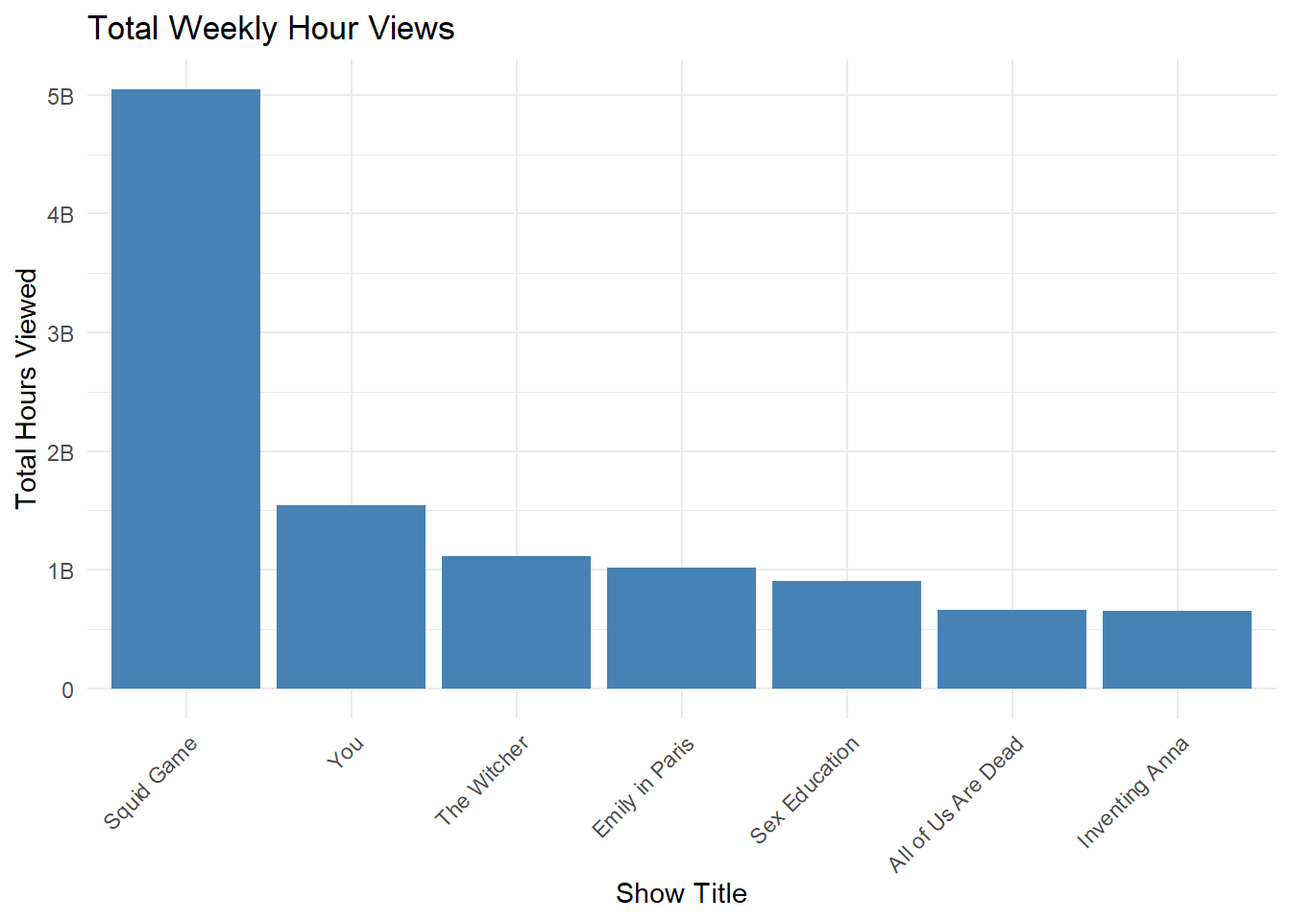
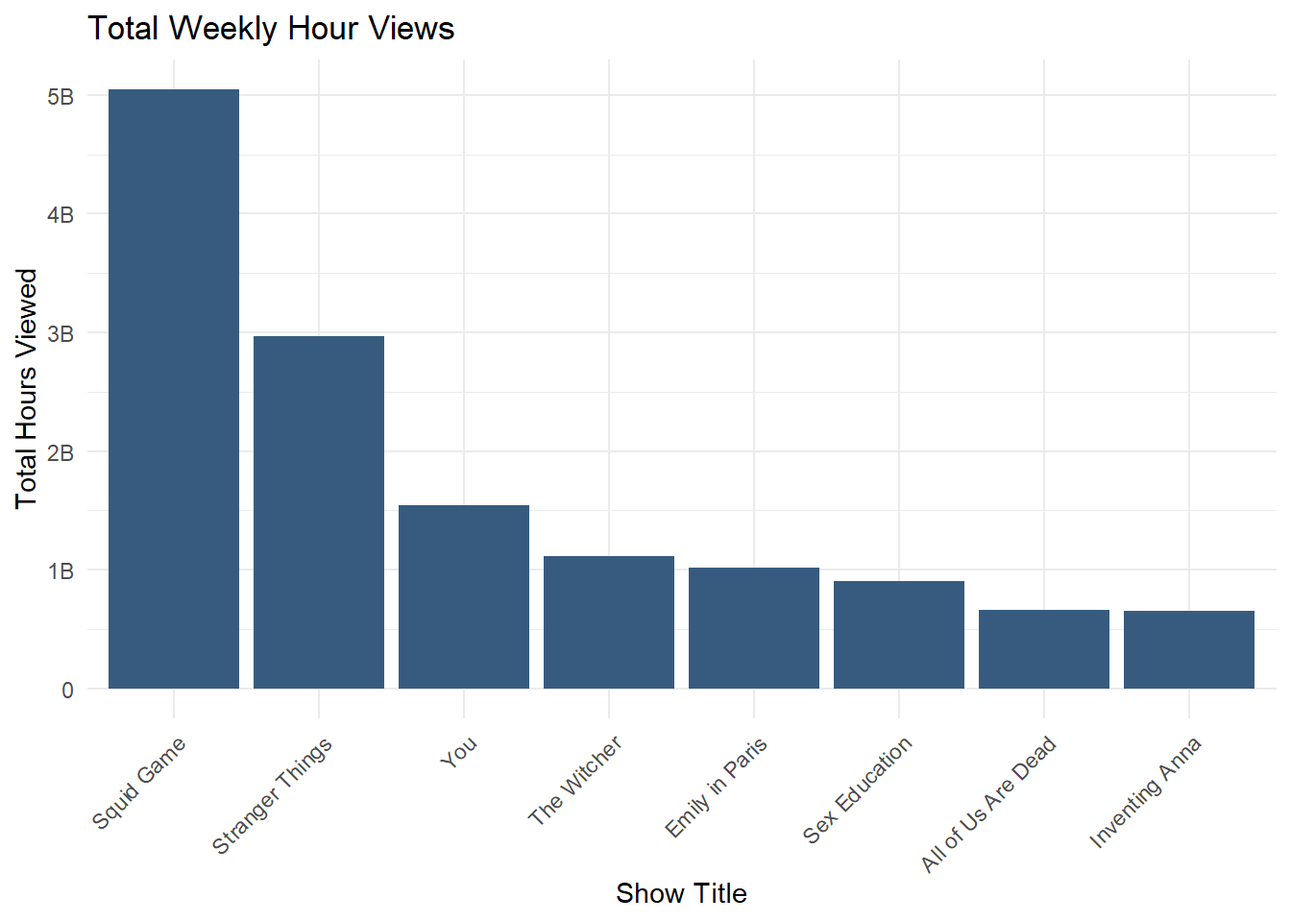
added graph images

diff --git a/docs/mp01.html b/docs/mp01.html
@@ -238,33 +238,34 @@ pre > code.sourceCode > span > a:first-child::before { text-decoration: underlin
 <span id="cb1-9"><a href="#cb1-9" aria-hidden="true" tabindex="-1"></a><span class="fu">library</span>(rnaturalearth)</span>
 <span id="cb1-10"><a href="#cb1-10" aria-hidden="true" tabindex="-1"></a><span class="fu">library</span>(rnaturalearthdata)</span>
 <span id="cb1-11"><a href="#cb1-11" aria-hidden="true" tabindex="-1"></a><span class="fu">library</span>(ggplot2)</span>
-<span id="cb1-12"><a href="#cb1-12" aria-hidden="true" tabindex="-1"></a></span>
+<span id="cb1-12"><a href="#cb1-12" aria-hidden="true" tabindex="-1"></a><span class="fu">library</span>(scales)</span>
 <span id="cb1-13"><a href="#cb1-13" aria-hidden="true" tabindex="-1"></a></span>
-<span id="cb1-14"><a href="#cb1-14" aria-hidden="true" tabindex="-1"></a><span class="cf">if</span>(<span class="sc">!</span><span class="fu">dir.exists</span>(<span class="fu">file.path</span>(<span class="st">"data"</span>, <span class="st">"mp01"</span>))){</span>
-<span id="cb1-15"><a href="#cb1-15" aria-hidden="true" tabindex="-1"></a>    <span class="fu">dir.create</span>(<span class="fu">file.path</span>(<span class="st">"data"</span>, <span class="st">"mp01"</span>), <span class="at">showWarnings=</span><span class="cn">FALSE</span>, <span class="at">recursive=</span><span class="cn">TRUE</span>)</span>
-<span id="cb1-16"><a href="#cb1-16" aria-hidden="true" tabindex="-1"></a>}</span>
-<span id="cb1-17"><a href="#cb1-17" aria-hidden="true" tabindex="-1"></a></span>
-<span id="cb1-18"><a href="#cb1-18" aria-hidden="true" tabindex="-1"></a>GLOBAL_TOP_10_FILENAME <span class="ot">&lt;-</span> <span class="fu">file.path</span>(<span class="st">"data"</span>, <span class="st">"mp01"</span>, <span class="st">"global_top10_alltime.csv"</span>)</span>
-<span id="cb1-19"><a href="#cb1-19" aria-hidden="true" tabindex="-1"></a></span>
-<span id="cb1-20"><a href="#cb1-20" aria-hidden="true" tabindex="-1"></a><span class="cf">if</span>(<span class="sc">!</span><span class="fu">file.exists</span>(GLOBAL_TOP_10_FILENAME)){</span>
-<span id="cb1-21"><a href="#cb1-21" aria-hidden="true" tabindex="-1"></a>    <span class="fu">download.file</span>(<span class="st">"https://www.netflix.com/tudum/top10/data/all-weeks-global.tsv"</span>, </span>
-<span id="cb1-22"><a href="#cb1-22" aria-hidden="true" tabindex="-1"></a>                  <span class="at">destfile=</span>GLOBAL_TOP_10_FILENAME)</span>
-<span id="cb1-23"><a href="#cb1-23" aria-hidden="true" tabindex="-1"></a>}</span>
-<span id="cb1-24"><a href="#cb1-24" aria-hidden="true" tabindex="-1"></a></span>
-<span id="cb1-25"><a href="#cb1-25" aria-hidden="true" tabindex="-1"></a>COUNTRY_TOP_10_FILENAME <span class="ot">&lt;-</span> <span class="fu">file.path</span>(<span class="st">"data"</span>, <span class="st">"mp01"</span>, <span class="st">"country_top10_alltime.csv"</span>)</span>
-<span id="cb1-26"><a href="#cb1-26" aria-hidden="true" tabindex="-1"></a></span>
-<span id="cb1-27"><a href="#cb1-27" aria-hidden="true" tabindex="-1"></a><span class="cf">if</span>(<span class="sc">!</span><span class="fu">file.exists</span>(COUNTRY_TOP_10_FILENAME)){</span>
-<span id="cb1-28"><a href="#cb1-28" aria-hidden="true" tabindex="-1"></a>    <span class="fu">download.file</span>(<span class="st">"https://www.netflix.com/tudum/top10/data/all-weeks-countries.tsv"</span>, </span>
-<span id="cb1-29"><a href="#cb1-29" aria-hidden="true" tabindex="-1"></a>                  <span class="at">destfile=</span>COUNTRY_TOP_10_FILENAME)</span>
-<span id="cb1-30"><a href="#cb1-30" aria-hidden="true" tabindex="-1"></a>}</span>
-<span id="cb1-31"><a href="#cb1-31" aria-hidden="true" tabindex="-1"></a></span>
-<span id="cb1-32"><a href="#cb1-32" aria-hidden="true" tabindex="-1"></a>COUNTRY_TOP_10_FILENAME <span class="ot">&lt;-</span> <span class="fu">file.path</span>(<span class="st">"data"</span>, <span class="st">"mp01"</span>, <span class="st">"country_top10_alltime.csv"</span>)</span>
-<span id="cb1-33"><a href="#cb1-33" aria-hidden="true" tabindex="-1"></a></span>
-<span id="cb1-34"><a href="#cb1-34" aria-hidden="true" tabindex="-1"></a><span class="co"># Data cleaning to replace "N/A" string with N/A</span></span>
-<span id="cb1-35"><a href="#cb1-35" aria-hidden="true" tabindex="-1"></a></span>
-<span id="cb1-36"><a href="#cb1-36" aria-hidden="true" tabindex="-1"></a>GLOBAL_TOP_10 <span class="ot">&lt;-</span> <span class="fu">read_tsv</span>(GLOBAL_TOP_10_FILENAME, <span class="at">na=</span><span class="fu">c</span>(<span class="st">"N/A"</span>))</span>
-<span id="cb1-37"><a href="#cb1-37" aria-hidden="true" tabindex="-1"></a></span>
-<span id="cb1-38"><a href="#cb1-38" aria-hidden="true" tabindex="-1"></a>COUNTRY_TOP_10 <span class="ot">&lt;-</span> <span class="fu">read_tsv</span>(COUNTRY_TOP_10_FILENAME, <span class="at">na=</span><span class="fu">c</span>(<span class="st">"N/A"</span>))</span></code><button title="Copy to Clipboard" class="code-copy-button"><i class="bi"></i></button></pre></div>
+<span id="cb1-14"><a href="#cb1-14" aria-hidden="true" tabindex="-1"></a></span>
+<span id="cb1-15"><a href="#cb1-15" aria-hidden="true" tabindex="-1"></a><span class="cf">if</span>(<span class="sc">!</span><span class="fu">dir.exists</span>(<span class="fu">file.path</span>(<span class="st">"data"</span>, <span class="st">"mp01"</span>))){</span>
+<span id="cb1-16"><a href="#cb1-16" aria-hidden="true" tabindex="-1"></a>    <span class="fu">dir.create</span>(<span class="fu">file.path</span>(<span class="st">"data"</span>, <span class="st">"mp01"</span>), <span class="at">showWarnings=</span><span class="cn">FALSE</span>, <span class="at">recursive=</span><span class="cn">TRUE</span>)</span>
+<span id="cb1-17"><a href="#cb1-17" aria-hidden="true" tabindex="-1"></a>}</span>
+<span id="cb1-18"><a href="#cb1-18" aria-hidden="true" tabindex="-1"></a></span>
+<span id="cb1-19"><a href="#cb1-19" aria-hidden="true" tabindex="-1"></a>GLOBAL_TOP_10_FILENAME <span class="ot">&lt;-</span> <span class="fu">file.path</span>(<span class="st">"data"</span>, <span class="st">"mp01"</span>, <span class="st">"global_top10_alltime.csv"</span>)</span>
+<span id="cb1-20"><a href="#cb1-20" aria-hidden="true" tabindex="-1"></a></span>
+<span id="cb1-21"><a href="#cb1-21" aria-hidden="true" tabindex="-1"></a><span class="cf">if</span>(<span class="sc">!</span><span class="fu">file.exists</span>(GLOBAL_TOP_10_FILENAME)){</span>
+<span id="cb1-22"><a href="#cb1-22" aria-hidden="true" tabindex="-1"></a>    <span class="fu">download.file</span>(<span class="st">"https://www.netflix.com/tudum/top10/data/all-weeks-global.tsv"</span>, </span>
+<span id="cb1-23"><a href="#cb1-23" aria-hidden="true" tabindex="-1"></a>                  <span class="at">destfile=</span>GLOBAL_TOP_10_FILENAME)</span>
+<span id="cb1-24"><a href="#cb1-24" aria-hidden="true" tabindex="-1"></a>}</span>
+<span id="cb1-25"><a href="#cb1-25" aria-hidden="true" tabindex="-1"></a></span>
+<span id="cb1-26"><a href="#cb1-26" aria-hidden="true" tabindex="-1"></a>COUNTRY_TOP_10_FILENAME <span class="ot">&lt;-</span> <span class="fu">file.path</span>(<span class="st">"data"</span>, <span class="st">"mp01"</span>, <span class="st">"country_top10_alltime.csv"</span>)</span>
+<span id="cb1-27"><a href="#cb1-27" aria-hidden="true" tabindex="-1"></a></span>
+<span id="cb1-28"><a href="#cb1-28" aria-hidden="true" tabindex="-1"></a><span class="cf">if</span>(<span class="sc">!</span><span class="fu">file.exists</span>(COUNTRY_TOP_10_FILENAME)){</span>
+<span id="cb1-29"><a href="#cb1-29" aria-hidden="true" tabindex="-1"></a>    <span class="fu">download.file</span>(<span class="st">"https://www.netflix.com/tudum/top10/data/all-weeks-countries.tsv"</span>, </span>
+<span id="cb1-30"><a href="#cb1-30" aria-hidden="true" tabindex="-1"></a>                  <span class="at">destfile=</span>COUNTRY_TOP_10_FILENAME)</span>
+<span id="cb1-31"><a href="#cb1-31" aria-hidden="true" tabindex="-1"></a>}</span>
+<span id="cb1-32"><a href="#cb1-32" aria-hidden="true" tabindex="-1"></a></span>
+<span id="cb1-33"><a href="#cb1-33" aria-hidden="true" tabindex="-1"></a>COUNTRY_TOP_10_FILENAME <span class="ot">&lt;-</span> <span class="fu">file.path</span>(<span class="st">"data"</span>, <span class="st">"mp01"</span>, <span class="st">"country_top10_alltime.csv"</span>)</span>
+<span id="cb1-34"><a href="#cb1-34" aria-hidden="true" tabindex="-1"></a></span>
+<span id="cb1-35"><a href="#cb1-35" aria-hidden="true" tabindex="-1"></a><span class="co"># Data cleaning to replace "N/A" string with N/A</span></span>
+<span id="cb1-36"><a href="#cb1-36" aria-hidden="true" tabindex="-1"></a></span>
+<span id="cb1-37"><a href="#cb1-37" aria-hidden="true" tabindex="-1"></a>GLOBAL_TOP_10 <span class="ot">&lt;-</span> <span class="fu">read_tsv</span>(GLOBAL_TOP_10_FILENAME, <span class="at">na=</span><span class="fu">c</span>(<span class="st">"N/A"</span>))</span>
+<span id="cb1-38"><a href="#cb1-38" aria-hidden="true" tabindex="-1"></a></span>
+<span id="cb1-39"><a href="#cb1-39" aria-hidden="true" tabindex="-1"></a>COUNTRY_TOP_10 <span class="ot">&lt;-</span> <span class="fu">read_tsv</span>(COUNTRY_TOP_10_FILENAME, <span class="at">na=</span><span class="fu">c</span>(<span class="st">"N/A"</span>))</span></code><button title="Copy to Clipboard" class="code-copy-button"><i class="bi"></i></button></pre></div>
 </details>
 </div>
 </section>
@@ -308,8 +309,8 @@ pre > code.sourceCode > span > a:first-child::before { text-decoration: underlin
 <span id="cb4-10"><a href="#cb4-10" aria-hidden="true" tabindex="-1"></a>              <span class="at">color =</span><span class="st">'white'</span>)</span></code><button title="Copy to Clipboard" class="code-copy-button"><i class="bi"></i></button></pre></div>
 </details>
 <div class="cell-output-display">
-<div class="datatables html-widget html-fill-item" id="htmlwidget-d7f323e7b025d54f7ba7" style="width:100%;height:auto;"></div>
-<script type="application/json" data-for="htmlwidget-d7f323e7b025d54f7ba7">{"x":{"filter":"none","vertical":false,"data":[["1","2","3","4","5"],["Pushpa 2: The Rule (Reloaded Version)","Animal","Titanic","aka Charlie Sheen","Horizon: An American Saga: Chapter 1"],["Films (Non-English)","Films (Non-English)","Films (English)","Films (English)","Films (English)"],[3.7333,3.35,3.25,3.0333,3.0167],[224,201,195,182,181]],"container":"<table class=\"display\">\n  <thead>\n    <tr>\n      <th> <\/th>\n      <th>show_title<\/th>\n      <th>category<\/th>\n      <th>runtime<\/th>\n      <th>runtime_mins<\/th>\n    <\/tr>\n  <\/thead>\n<\/table>","options":{"searching":false,"info":false,"columnDefs":[{"className":"dt-right","targets":[3,4]},{"orderable":false,"targets":0},{"name":" ","targets":0},{"name":"show_title","targets":1},{"name":"category","targets":2},{"name":"runtime","targets":3},{"name":"runtime_mins","targets":4}],"order":[],"autoWidth":false,"orderClasses":false,"rowCallback":"function(row, data, displayNum, displayIndex, dataIndex) {\nvar value=data[1]; $(this.api().cell(row, 1).node()).css({'color':'white'});\nvar value=data[2]; $(this.api().cell(row, 2).node()).css({'color':'white'});\nvar value=data[3]; $(this.api().cell(row, 3).node()).css({'color':'white'});\nvar value=data[4]; $(this.api().cell(row, 4).node()).css({'color':'white'});\n}"}},"evals":["options.rowCallback"],"jsHooks":[]}</script>
+<div class="datatables html-widget html-fill-item" id="htmlwidget-b455d18cc71e4b0299f7" style="width:100%;height:auto;"></div>
+<script type="application/json" data-for="htmlwidget-b455d18cc71e4b0299f7">{"x":{"filter":"none","vertical":false,"data":[["1","2","3","4","5"],["Pushpa 2: The Rule (Reloaded Version)","Animal","Titanic","aka Charlie Sheen","Horizon: An American Saga: Chapter 1"],["Films (Non-English)","Films (Non-English)","Films (English)","Films (English)","Films (English)"],[3.7333,3.35,3.25,3.0333,3.0167],[224,201,195,182,181]],"container":"<table class=\"display\">\n  <thead>\n    <tr>\n      <th> <\/th>\n      <th>show_title<\/th>\n      <th>category<\/th>\n      <th>runtime<\/th>\n      <th>runtime_mins<\/th>\n    <\/tr>\n  <\/thead>\n<\/table>","options":{"searching":false,"info":false,"columnDefs":[{"className":"dt-right","targets":[3,4]},{"orderable":false,"targets":0},{"name":" ","targets":0},{"name":"show_title","targets":1},{"name":"category","targets":2},{"name":"runtime","targets":3},{"name":"runtime_mins","targets":4}],"order":[],"autoWidth":false,"orderClasses":false,"rowCallback":"function(row, data, displayNum, displayIndex, dataIndex) {\nvar value=data[1]; $(this.api().cell(row, 1).node()).css({'color':'white'});\nvar value=data[2]; $(this.api().cell(row, 2).node()).css({'color':'white'});\nvar value=data[3]; $(this.api().cell(row, 3).node()).css({'color':'white'});\nvar value=data[4]; $(this.api().cell(row, 4).node()).css({'color':'white'});\n}"}},"evals":["options.rowCallback"],"jsHooks":[]}</script>
 </div>
 </div>
 <ul>
@@ -340,8 +341,8 @@ pre > code.sourceCode > span > a:first-child::before { text-decoration: underlin
 <span id="cb6-10"><a href="#cb6-10" aria-hidden="true" tabindex="-1"></a>              <span class="at">color =</span><span class="st">'white'</span>)</span></code><button title="Copy to Clipboard" class="code-copy-button"><i class="bi"></i></button></pre></div>
 </details>
 <div class="cell-output-display">
-<div class="datatables html-widget html-fill-item" id="htmlwidget-1cea2e8e069fa1737b3e" style="width:100%;height:auto;"></div>
-<script type="application/json" data-for="htmlwidget-1cea2e8e069fa1737b3e">{"x":{"filter":"none","vertical":false,"data":[["1","2","3","4","5"],["TV","TV","TV","TV","TV"],["Money Heist","Lottie Dottie Chicken","Pablo Escobar, el patrón del mal","Pablo Escobar, el patrón del mal","Pasión de Gavilanes"],[127,114,102,102,102],["Pakistan","Brazil","Colombia","El Salvador","Honduras"]],"container":"<table class=\"display\">\n  <thead>\n    <tr>\n      <th> <\/th>\n      <th>category<\/th>\n      <th>show_title<\/th>\n      <th>cumulative_weeks_in_top_10<\/th>\n      <th>country_name<\/th>\n    <\/tr>\n  <\/thead>\n<\/table>","options":{"searching":false,"info":false,"columnDefs":[{"className":"dt-right","targets":3},{"orderable":false,"targets":0},{"name":" ","targets":0},{"name":"category","targets":1},{"name":"show_title","targets":2},{"name":"cumulative_weeks_in_top_10","targets":3},{"name":"country_name","targets":4}],"order":[],"autoWidth":false,"orderClasses":false,"rowCallback":"function(row, data, displayNum, displayIndex, dataIndex) {\nvar value=data[1]; $(this.api().cell(row, 1).node()).css({'color':'white'});\nvar value=data[2]; $(this.api().cell(row, 2).node()).css({'color':'white'});\nvar value=data[3]; $(this.api().cell(row, 3).node()).css({'color':'white'});\nvar value=data[4]; $(this.api().cell(row, 4).node()).css({'color':'white'});\n}"}},"evals":["options.rowCallback"],"jsHooks":[]}</script>
+<div class="datatables html-widget html-fill-item" id="htmlwidget-fa194221506611181134" style="width:100%;height:auto;"></div>
+<script type="application/json" data-for="htmlwidget-fa194221506611181134">{"x":{"filter":"none","vertical":false,"data":[["1","2","3","4","5"],["TV","TV","TV","TV","TV"],["Money Heist","Lottie Dottie Chicken","Pablo Escobar, el patrón del mal","Pablo Escobar, el patrón del mal","Pasión de Gavilanes"],[127,114,102,102,102],["Pakistan","Brazil","Colombia","El Salvador","Honduras"]],"container":"<table class=\"display\">\n  <thead>\n    <tr>\n      <th> <\/th>\n      <th>category<\/th>\n      <th>show_title<\/th>\n      <th>cumulative_weeks_in_top_10<\/th>\n      <th>country_name<\/th>\n    <\/tr>\n  <\/thead>\n<\/table>","options":{"searching":false,"info":false,"columnDefs":[{"className":"dt-right","targets":3},{"orderable":false,"targets":0},{"name":" ","targets":0},{"name":"category","targets":1},{"name":"show_title","targets":2},{"name":"cumulative_weeks_in_top_10","targets":3},{"name":"country_name","targets":4}],"order":[],"autoWidth":false,"orderClasses":false,"rowCallback":"function(row, data, displayNum, displayIndex, dataIndex) {\nvar value=data[1]; $(this.api().cell(row, 1).node()).css({'color':'white'});\nvar value=data[2]; $(this.api().cell(row, 2).node()).css({'color':'white'});\nvar value=data[3]; $(this.api().cell(row, 3).node()).css({'color':'white'});\nvar value=data[4]; $(this.api().cell(row, 4).node()).css({'color':'white'});\n}"}},"evals":["options.rowCallback"],"jsHooks":[]}</script>
 </div>
 </div>
 <ul>
@@ -361,8 +362,8 @@ pre > code.sourceCode > span > a:first-child::before { text-decoration: underlin
 <span id="cb7-9"><a href="#cb7-9" aria-hidden="true" tabindex="-1"></a>              <span class="at">color =</span><span class="st">'white'</span>)</span></code><button title="Copy to Clipboard" class="code-copy-button"><i class="bi"></i></button></pre></div>
 </details>
 <div class="cell-output-display">
-<div class="datatables html-widget html-fill-item" id="htmlwidget-a9f70b42da5a19bfc46e" style="width:100%;height:auto;"></div>
-<script type="application/json" data-for="htmlwidget-a9f70b42da5a19bfc46e">{"x":{"filter":"none","vertical":false,"data":[["1","2","3"],["Russia","Argentina","Australia"],[35,221,221]],"container":"<table class=\"display\">\n  <thead>\n    <tr>\n      <th> <\/th>\n      <th>country_name<\/th>\n      <th>num_weeks<\/th>\n    <\/tr>\n  <\/thead>\n<\/table>","options":{"searching":false,"info":false,"columnDefs":[{"className":"dt-right","targets":2},{"orderable":false,"targets":0},{"name":" ","targets":0},{"name":"country_name","targets":1},{"name":"num_weeks","targets":2}],"order":[],"autoWidth":false,"orderClasses":false,"rowCallback":"function(row, data, displayNum, displayIndex, dataIndex) {\nvar value=data[1]; $(this.api().cell(row, 1).node()).css({'color':'white'});\nvar value=data[2]; $(this.api().cell(row, 2).node()).css({'color':'white'});\n}"}},"evals":["options.rowCallback"],"jsHooks":[]}</script>
+<div class="datatables html-widget html-fill-item" id="htmlwidget-baba6e22714d39038e21" style="width:100%;height:auto;"></div>
+<script type="application/json" data-for="htmlwidget-baba6e22714d39038e21">{"x":{"filter":"none","vertical":false,"data":[["1","2","3"],["Russia","Argentina","Australia"],[35,221,221]],"container":"<table class=\"display\">\n  <thead>\n    <tr>\n      <th> <\/th>\n      <th>country_name<\/th>\n      <th>num_weeks<\/th>\n    <\/tr>\n  <\/thead>\n<\/table>","options":{"searching":false,"info":false,"columnDefs":[{"className":"dt-right","targets":2},{"orderable":false,"targets":0},{"name":" ","targets":0},{"name":"country_name","targets":1},{"name":"num_weeks","targets":2}],"order":[],"autoWidth":false,"orderClasses":false,"rowCallback":"function(row, data, displayNum, displayIndex, dataIndex) {\nvar value=data[1]; $(this.api().cell(row, 1).node()).css({'color':'white'});\nvar value=data[2]; $(this.api().cell(row, 2).node()).css({'color':'white'});\n}"}},"evals":["options.rowCallback"],"jsHooks":[]}</script>
 </div>
 </div>
 <ul>
@@ -421,8 +422,8 @@ pre > code.sourceCode > span > a:first-child::before { text-decoration: underlin
 <span id="cb10-20"><a href="#cb10-20" aria-hidden="true" tabindex="-1"></a>              <span class="at">color =</span><span class="st">'white'</span>)</span></code><button title="Copy to Clipboard" class="code-copy-button"><i class="bi"></i></button></pre></div>
 </details>
 <div class="cell-output-display">
-<div class="datatables html-widget html-fill-item" id="htmlwidget-d61a9b246103b860ca4c" style="width:100%;height:auto;"></div>
-<script type="application/json" data-for="htmlwidget-d61a9b246103b860ca4c">{"x":{"filter":"none","vertical":false,"data":[["1","2","3","4","5"],["Unknown Number: The High School Catfish","KPop Demon Hunters","Plane","The Wild Robot","Despicable Me 4"],[4,6,2,3,2],["2025-09-07","2025-08-10","2025-06-22","2025-06-01","2025-03-09"]],"container":"<table class=\"display\">\n  <thead>\n    <tr>\n      <th> <\/th>\n      <th>show_title<\/th>\n      <th>debut_rank<\/th>\n      <th>first_hit_week<\/th>\n    <\/tr>\n  <\/thead>\n<\/table>","options":{"searching":false,"info":false,"columnDefs":[{"className":"dt-right","targets":2},{"orderable":false,"targets":0},{"name":" ","targets":0},{"name":"show_title","targets":1},{"name":"debut_rank","targets":2},{"name":"first_hit_week","targets":3}],"order":[],"autoWidth":false,"orderClasses":false,"rowCallback":"function(row, data, displayNum, displayIndex, dataIndex) {\nvar value=data[1]; $(this.api().cell(row, 1).node()).css({'color':'white'});\nvar value=data[2]; $(this.api().cell(row, 2).node()).css({'color':'white'});\nvar value=data[3]; $(this.api().cell(row, 3).node()).css({'color':'white'});\n}"}},"evals":["options.rowCallback"],"jsHooks":[]}</script>
+<div class="datatables html-widget html-fill-item" id="htmlwidget-0e8391ffdd5817701752" style="width:100%;height:auto;"></div>
+<script type="application/json" data-for="htmlwidget-0e8391ffdd5817701752">{"x":{"filter":"none","vertical":false,"data":[["1","2","3","4","5"],["Unknown Number: The High School Catfish","KPop Demon Hunters","Plane","The Wild Robot","Despicable Me 4"],[4,6,2,3,2],["2025-09-07","2025-08-10","2025-06-22","2025-06-01","2025-03-09"]],"container":"<table class=\"display\">\n  <thead>\n    <tr>\n      <th> <\/th>\n      <th>show_title<\/th>\n      <th>debut_rank<\/th>\n      <th>first_hit_week<\/th>\n    <\/tr>\n  <\/thead>\n<\/table>","options":{"searching":false,"info":false,"columnDefs":[{"className":"dt-right","targets":2},{"orderable":false,"targets":0},{"name":" ","targets":0},{"name":"show_title","targets":1},{"name":"debut_rank","targets":2},{"name":"first_hit_week","targets":3}],"order":[],"autoWidth":false,"orderClasses":false,"rowCallback":"function(row, data, displayNum, displayIndex, dataIndex) {\nvar value=data[1]; $(this.api().cell(row, 1).node()).css({'color':'white'});\nvar value=data[2]; $(this.api().cell(row, 2).node()).css({'color':'white'});\nvar value=data[3]; $(this.api().cell(row, 3).node()).css({'color':'white'});\n}"}},"evals":["options.rowCallback"],"jsHooks":[]}</script>
 </div>
 </div>
 <ul>
@@ -449,8 +450,8 @@ pre > code.sourceCode > span > a:first-child::before { text-decoration: underlin
 <span id="cb11-16"><a href="#cb11-16" aria-hidden="true" tabindex="-1"></a>              <span class="at">color =</span><span class="st">'white'</span>)</span></code><button title="Copy to Clipboard" class="code-copy-button"><i class="bi"></i></button></pre></div>
 </details>
 <div class="cell-output-display">
-<div class="datatables html-widget html-fill-item" id="htmlwidget-095302cadf0efefeb566" style="width:100%;height:auto;"></div>
-<script type="application/json" data-for="htmlwidget-095302cadf0efefeb566">{"x":{"filter":"none","vertical":false,"data":[["1","2","3","4","5","6","7","8","9","10"],["All of Us Are Dead","Emily in Paris","Inventing Anna","Sex Education","Squid Game","The Witcher","You","3 Body Problem","Adolescence","Bridgerton"],[94,94,94,94,94,94,94,93,93,93]],"container":"<table class=\"display\">\n  <thead>\n    <tr>\n      <th> <\/th>\n      <th>show_title<\/th>\n      <th>countries_in_top_10<\/th>\n    <\/tr>\n  <\/thead>\n<\/table>","options":{"searching":false,"info":false,"columnDefs":[{"className":"dt-right","targets":2},{"orderable":false,"targets":0},{"name":" ","targets":0},{"name":"show_title","targets":1},{"name":"countries_in_top_10","targets":2}],"order":[],"autoWidth":false,"orderClasses":false,"rowCallback":"function(row, data, displayNum, displayIndex, dataIndex) {\nvar value=data[1]; $(this.api().cell(row, 1).node()).css({'color':'white'});\nvar value=data[2]; $(this.api().cell(row, 2).node()).css({'color':'white'});\n}"}},"evals":["options.rowCallback"],"jsHooks":[]}</script>
+<div class="datatables html-widget html-fill-item" id="htmlwidget-b56d41d293a2cd8fde4d" style="width:100%;height:auto;"></div>
+<script type="application/json" data-for="htmlwidget-b56d41d293a2cd8fde4d">{"x":{"filter":"none","vertical":false,"data":[["1","2","3","4","5","6","7","8","9","10"],["All of Us Are Dead","Emily in Paris","Inventing Anna","Sex Education","Squid Game","The Witcher","You","3 Body Problem","Adolescence","Bridgerton"],[94,94,94,94,94,94,94,93,93,93]],"container":"<table class=\"display\">\n  <thead>\n    <tr>\n      <th> <\/th>\n      <th>show_title<\/th>\n      <th>countries_in_top_10<\/th>\n    <\/tr>\n  <\/thead>\n<\/table>","options":{"searching":false,"info":false,"columnDefs":[{"className":"dt-right","targets":2},{"orderable":false,"targets":0},{"name":" ","targets":0},{"name":"show_title","targets":1},{"name":"countries_in_top_10","targets":2}],"order":[],"autoWidth":false,"orderClasses":false,"rowCallback":"function(row, data, displayNum, displayIndex, dataIndex) {\nvar value=data[1]; $(this.api().cell(row, 1).node()).css({'color':'white'});\nvar value=data[2]; $(this.api().cell(row, 2).node()).css({'color':'white'});\n}"}},"evals":["options.rowCallback"],"jsHooks":[]}</script>
 </div>
 </div>
 </section>
@@ -497,37 +498,34 @@ pre > code.sourceCode > span > a:first-child::before { text-decoration: underlin
 <span id="cb14-12"><a href="#cb14-12" aria-hidden="true" tabindex="-1"></a>              <span class="at">color =</span><span class="st">'white'</span>)</span></code><button title="Copy to Clipboard" class="code-copy-button"><i class="bi"></i></button></pre></div>
 </details>
 <div class="cell-output-display">
-<div class="datatables html-widget html-fill-item" id="htmlwidget-faae0c436f1608aaf534" style="width:100%;height:auto;"></div>
-<script type="application/json" data-for="htmlwidget-faae0c436f1608aaf534">{"x":{"filter":"none","vertical":false,"data":[["1","2","3","4","5","6","7","8","9","10","11","12","13","14","15","16","17","18","19","20","21","22","23","24","25","26","27","28","29","30","31","32","33","34","35","36","37","38","39","40","41","42","43","44","45","46","47","48","49","50","51","52","53","54","55","56","57","58","59","60","61","62","63","64","65","66","67","68","69","70","71","72","73","74","75","76","77","78","79","80","81","82","83","84","85","86","87","88","89","90","91","92","93"],["Argentina","Australia","Austria","Bahamas","Bahrain","Bangladesh","Belgium","Bolivia","Brazil","Bulgaria","Canada","Chile","Colombia","Costa Rica","Croatia","Cyprus","Czech Republic","Denmark","Dominican Republic","Ecuador","Egypt","El Salvador","Estonia","Finland","France","Germany","Greece","Guadeloupe","Guatemala","Honduras","Hong Kong","Hungary","Iceland","India","Indonesia","Ireland","Israel","Italy","Jamaica","Japan","Jordan","Kenya","Kuwait","Latvia","Lebanon","Lithuania","Luxembourg","Malaysia","Maldives","Malta","Martinique","Mauritius","Mexico","Morocco","Netherlands","New Caledonia","New Zealand","Nicaragua","Nigeria","Norway","Oman","Pakistan","Panama","Paraguay","Peru","Philippines","Poland","Portugal","Qatar","Romania","Réunion","Saudi Arabia","Serbia","Singapore","Slovakia","Slovenia","South Africa","South Korea","Spain","Sri Lanka","Sweden","Switzerland","Taiwan","Thailand","Trinidad and Tobago","Turkey","Ukraine","United Arab Emirates","United Kingdom","United States","Uruguay","Venezuela","Vietnam"],[10,14,15,11,12,17,17,11,10,17,15,12,10,10,17,13,18,16,9,9,16,10,15,16,13,15,16,10,9,9,15,17,15,21,9,15,15,16,12,11,15,12,13,15,14,15,15,9,13,15,10,12,12,15,15,11,13,9,13,15,13,23,9,11,11,10,14,15,13,13,12,13,21,10,17,17,13,6,13,13,16,15,7,9,12,14,24,13,17,16,10,10,12]],"container":"<table class=\"display\">\n  <thead>\n    <tr>\n      <th> <\/th>\n      <th>country_name<\/th>\n      <th>num_countries<\/th>\n    <\/tr>\n  <\/thead>\n<\/table>","options":{"paging":true,"searching":false,"info":false,"columnDefs":[{"className":"dt-right","targets":2},{"orderable":false,"targets":0},{"name":" ","targets":0},{"name":"country_name","targets":1},{"name":"num_countries","targets":2}],"order":[],"autoWidth":false,"orderClasses":false,"rowCallback":"function(row, data, displayNum, displayIndex, dataIndex) {\nvar value=data[1]; $(this.api().cell(row, 1).node()).css({'color':'white'});\nvar value=data[2]; $(this.api().cell(row, 2).node()).css({'color':'white'});\n}"}},"evals":["options.rowCallback"],"jsHooks":[]}</script>
+<div class="datatables html-widget html-fill-item" id="htmlwidget-3e91bef64a9f4c3b20d5" style="width:100%;height:auto;"></div>
+<script type="application/json" data-for="htmlwidget-3e91bef64a9f4c3b20d5">{"x":{"filter":"none","vertical":false,"data":[["1","2","3","4","5","6","7","8","9","10","11","12","13","14","15","16","17","18","19","20","21","22","23","24","25","26","27","28","29","30","31","32","33","34","35","36","37","38","39","40","41","42","43","44","45","46","47","48","49","50","51","52","53","54","55","56","57","58","59","60","61","62","63","64","65","66","67","68","69","70","71","72","73","74","75","76","77","78","79","80","81","82","83","84","85","86","87","88","89","90","91","92","93"],["Argentina","Australia","Austria","Bahamas","Bahrain","Bangladesh","Belgium","Bolivia","Brazil","Bulgaria","Canada","Chile","Colombia","Costa Rica","Croatia","Cyprus","Czech Republic","Denmark","Dominican Republic","Ecuador","Egypt","El Salvador","Estonia","Finland","France","Germany","Greece","Guadeloupe","Guatemala","Honduras","Hong Kong","Hungary","Iceland","India","Indonesia","Ireland","Israel","Italy","Jamaica","Japan","Jordan","Kenya","Kuwait","Latvia","Lebanon","Lithuania","Luxembourg","Malaysia","Maldives","Malta","Martinique","Mauritius","Mexico","Morocco","Netherlands","New Caledonia","New Zealand","Nicaragua","Nigeria","Norway","Oman","Pakistan","Panama","Paraguay","Peru","Philippines","Poland","Portugal","Qatar","Romania","Réunion","Saudi Arabia","Serbia","Singapore","Slovakia","Slovenia","South Africa","South Korea","Spain","Sri Lanka","Sweden","Switzerland","Taiwan","Thailand","Trinidad and Tobago","Turkey","Ukraine","United Arab Emirates","United Kingdom","United States","Uruguay","Venezuela","Vietnam"],[10,14,15,11,12,17,17,11,10,17,15,12,10,10,17,13,18,16,9,9,16,10,15,16,13,15,16,10,9,9,15,17,15,21,9,15,15,16,12,11,15,12,13,15,14,15,15,9,13,15,10,12,12,15,15,11,13,9,13,15,13,23,9,11,11,10,14,15,13,13,12,13,21,10,17,17,13,6,13,13,16,15,7,9,12,14,24,13,17,16,10,10,12]],"container":"<table class=\"display\">\n  <thead>\n    <tr>\n      <th> <\/th>\n      <th>country_name<\/th>\n      <th>num_countries<\/th>\n    <\/tr>\n  <\/thead>\n<\/table>","options":{"paging":true,"searching":false,"info":false,"columnDefs":[{"className":"dt-right","targets":2},{"orderable":false,"targets":0},{"name":" ","targets":0},{"name":"country_name","targets":1},{"name":"num_countries","targets":2}],"order":[],"autoWidth":false,"orderClasses":false,"rowCallback":"function(row, data, displayNum, displayIndex, dataIndex) {\nvar value=data[1]; $(this.api().cell(row, 1).node()).css({'color':'white'});\nvar value=data[2]; $(this.api().cell(row, 2).node()).css({'color':'white'});\n}"}},"evals":["options.rowCallback"],"jsHooks":[]}</script>
 </div>
 </div>
 <p>Comparing <em>Stranger Things</em> to the <strong>7</strong> TV shows that hit top 10 during its debut week in <strong>94</strong> different countries, <em>Stranger Things</em> ranks as the <strong>2nd highest total weekly hours</strong> only behind the cultural phenomenon <strong>Squid Game</strong>. Nearly a decade after its debut, <em>Stranger Things</em> continue to prove its staying power and relevance in the ever changing landscape of TV shows. As the series heads toward its conclusion, its continued dominance among the most-watched shows reaffirm its legacy as one of Netflix’s defining franchises.</p>
 <div class="cell">
 <details class="code-fold">
 <summary>Code</summary>
-<div class="sourceCode cell-code" id="cb15"><pre class="sourceCode r code-with-copy"><code class="sourceCode r"><span id="cb15-1"><a href="#cb15-1" aria-hidden="true" tabindex="-1"></a><span class="fu">library</span>(ggplot2)</span>
-<span id="cb15-2"><a href="#cb15-2" aria-hidden="true" tabindex="-1"></a><span class="fu">library</span>(scales)</span>
-<span id="cb15-3"><a href="#cb15-3" aria-hidden="true" tabindex="-1"></a></span>
-<span id="cb15-4"><a href="#cb15-4" aria-hidden="true" tabindex="-1"></a>get_7_of_top10_debuts <span class="ot">&lt;-</span> GLOBAL_TOP_10 <span class="sc">|&gt;</span> </span>
-<span id="cb15-5"><a href="#cb15-5" aria-hidden="true" tabindex="-1"></a>  <span class="fu">select</span>(show_title, weekly_hours_viewed) <span class="sc">|&gt;</span> </span>
-<span id="cb15-6"><a href="#cb15-6" aria-hidden="true" tabindex="-1"></a>  <span class="fu">filter</span>(show_title <span class="sc">==</span> <span class="st">"Stranger Things"</span> <span class="sc">|</span> </span>
-<span id="cb15-7"><a href="#cb15-7" aria-hidden="true" tabindex="-1"></a>           show_title <span class="sc">==</span> <span class="st">"All of Us Are Dead"</span> <span class="sc">|</span> </span>
-<span id="cb15-8"><a href="#cb15-8" aria-hidden="true" tabindex="-1"></a>           show_title <span class="sc">==</span> <span class="st">"Emily in Paris"</span><span class="sc">|</span> </span>
-<span id="cb15-9"><a href="#cb15-9" aria-hidden="true" tabindex="-1"></a>           show_title <span class="sc">==</span><span class="st">"Inventing Anna"</span> <span class="sc">|</span> </span>
-<span id="cb15-10"><a href="#cb15-10" aria-hidden="true" tabindex="-1"></a>           show_title <span class="sc">==</span> <span class="st">"Sex Education"</span> <span class="sc">|</span> </span>
-<span id="cb15-11"><a href="#cb15-11" aria-hidden="true" tabindex="-1"></a>           show_title <span class="sc">==</span> <span class="st">"Squid Game"</span> <span class="sc">|</span> </span>
-<span id="cb15-12"><a href="#cb15-12" aria-hidden="true" tabindex="-1"></a>           show_title <span class="sc">==</span><span class="st">"The Witcher"</span> <span class="sc">|</span> </span>
-<span id="cb15-13"><a href="#cb15-13" aria-hidden="true" tabindex="-1"></a>           show_title <span class="sc">==</span> <span class="st">"You"</span>) <span class="sc">|&gt;</span> </span>
-<span id="cb15-14"><a href="#cb15-14" aria-hidden="true" tabindex="-1"></a>  <span class="fu">group_by</span>(show_title) <span class="sc">|&gt;</span> </span>
-<span id="cb15-15"><a href="#cb15-15" aria-hidden="true" tabindex="-1"></a>  <span class="fu">summarise</span>(<span class="at">total_weekly_hours =</span> <span class="fu">sum</span>(weekly_hours_viewed))</span>
-<span id="cb15-16"><a href="#cb15-16" aria-hidden="true" tabindex="-1"></a></span>
-<span id="cb15-17"><a href="#cb15-17" aria-hidden="true" tabindex="-1"></a><span class="fu">ggplot</span>(get_7_of_top10_debuts, <span class="fu">aes</span>(<span class="at">x =</span> <span class="fu">reorder</span>(show_title, <span class="sc">-</span>total_weekly_hours), </span>
-<span id="cb15-18"><a href="#cb15-18" aria-hidden="true" tabindex="-1"></a>                                  <span class="at">y =</span> total_weekly_hours)) <span class="sc">+</span> </span>
-<span id="cb15-19"><a href="#cb15-19" aria-hidden="true" tabindex="-1"></a>  <span class="fu">geom_col</span>(<span class="at">fill =</span> <span class="st">"#375b7f"</span>) <span class="sc">+</span> </span>
-<span id="cb15-20"><a href="#cb15-20" aria-hidden="true" tabindex="-1"></a>  <span class="fu">labs</span>(<span class="at">title =</span> <span class="st">"Total Weekly Hour Views"</span>,<span class="at">x =</span> <span class="st">"Show Title"</span>, </span>
-<span id="cb15-21"><a href="#cb15-21" aria-hidden="true" tabindex="-1"></a>       <span class="at">y =</span> <span class="st">"Total Hours Viewed"</span>) <span class="sc">+</span> <span class="fu">theme_minimal</span>() <span class="sc">+</span> </span>
-<span id="cb15-22"><a href="#cb15-22" aria-hidden="true" tabindex="-1"></a>  <span class="fu">theme</span>(<span class="at">axis.text.x =</span> <span class="fu">element_text</span>(<span class="at">angle =</span> <span class="dv">45</span>, <span class="at">hjust =</span> <span class="dv">1</span>)) <span class="sc">+</span> </span>
-<span id="cb15-23"><a href="#cb15-23" aria-hidden="true" tabindex="-1"></a>  <span class="fu">scale_y_continuous</span>(<span class="at">labels =</span> <span class="fu">label_number</span>(<span class="at">scale_cut =</span> <span class="fu">cut_short_scale</span>()))</span></code><button title="Copy to Clipboard" class="code-copy-button"><i class="bi"></i></button></pre></div>
+<div class="sourceCode cell-code" id="cb15"><pre class="sourceCode r code-with-copy"><code class="sourceCode r"><span id="cb15-1"><a href="#cb15-1" aria-hidden="true" tabindex="-1"></a>get_7_of_top10_debuts <span class="ot">&lt;-</span> GLOBAL_TOP_10 <span class="sc">|&gt;</span> </span>
+<span id="cb15-2"><a href="#cb15-2" aria-hidden="true" tabindex="-1"></a>  <span class="fu">select</span>(show_title, weekly_hours_viewed) <span class="sc">|&gt;</span> </span>
+<span id="cb15-3"><a href="#cb15-3" aria-hidden="true" tabindex="-1"></a>  <span class="fu">filter</span>(show_title <span class="sc">==</span> <span class="st">"Stranger Things"</span> <span class="sc">|</span> </span>
+<span id="cb15-4"><a href="#cb15-4" aria-hidden="true" tabindex="-1"></a>           show_title <span class="sc">==</span> <span class="st">"All of Us Are Dead"</span> <span class="sc">|</span> </span>
+<span id="cb15-5"><a href="#cb15-5" aria-hidden="true" tabindex="-1"></a>           show_title <span class="sc">==</span> <span class="st">"Emily in Paris"</span><span class="sc">|</span> </span>
+<span id="cb15-6"><a href="#cb15-6" aria-hidden="true" tabindex="-1"></a>           show_title <span class="sc">==</span><span class="st">"Inventing Anna"</span> <span class="sc">|</span> </span>
+<span id="cb15-7"><a href="#cb15-7" aria-hidden="true" tabindex="-1"></a>           show_title <span class="sc">==</span> <span class="st">"Sex Education"</span> <span class="sc">|</span> </span>
+<span id="cb15-8"><a href="#cb15-8" aria-hidden="true" tabindex="-1"></a>           show_title <span class="sc">==</span> <span class="st">"Squid Game"</span> <span class="sc">|</span> </span>
+<span id="cb15-9"><a href="#cb15-9" aria-hidden="true" tabindex="-1"></a>           show_title <span class="sc">==</span><span class="st">"The Witcher"</span> <span class="sc">|</span> </span>
+<span id="cb15-10"><a href="#cb15-10" aria-hidden="true" tabindex="-1"></a>           show_title <span class="sc">==</span> <span class="st">"You"</span>) <span class="sc">|&gt;</span> </span>
+<span id="cb15-11"><a href="#cb15-11" aria-hidden="true" tabindex="-1"></a>  <span class="fu">group_by</span>(show_title) <span class="sc">|&gt;</span> </span>
+<span id="cb15-12"><a href="#cb15-12" aria-hidden="true" tabindex="-1"></a>  <span class="fu">summarise</span>(<span class="at">total_weekly_hours =</span> <span class="fu">sum</span>(weekly_hours_viewed))</span>
+<span id="cb15-13"><a href="#cb15-13" aria-hidden="true" tabindex="-1"></a></span>
+<span id="cb15-14"><a href="#cb15-14" aria-hidden="true" tabindex="-1"></a><span class="fu">ggplot</span>(get_7_of_top10_debuts, <span class="fu">aes</span>(<span class="at">x =</span> <span class="fu">reorder</span>(show_title, <span class="sc">-</span>total_weekly_hours), </span>
+<span id="cb15-15"><a href="#cb15-15" aria-hidden="true" tabindex="-1"></a>                                  <span class="at">y =</span> total_weekly_hours)) <span class="sc">+</span> </span>
+<span id="cb15-16"><a href="#cb15-16" aria-hidden="true" tabindex="-1"></a>  <span class="fu">geom_col</span>(<span class="at">fill =</span> <span class="st">"#375b7f"</span>) <span class="sc">+</span> </span>
+<span id="cb15-17"><a href="#cb15-17" aria-hidden="true" tabindex="-1"></a>  <span class="fu">labs</span>(<span class="at">title =</span> <span class="st">"Total Weekly Hour Views"</span>,<span class="at">x =</span> <span class="st">"Show Title"</span>, </span>
+<span id="cb15-18"><a href="#cb15-18" aria-hidden="true" tabindex="-1"></a>       <span class="at">y =</span> <span class="st">"Total Hours Viewed"</span>) <span class="sc">+</span> <span class="fu">theme_minimal</span>() <span class="sc">+</span> </span>
+<span id="cb15-19"><a href="#cb15-19" aria-hidden="true" tabindex="-1"></a>  <span class="fu">theme</span>(<span class="at">axis.text.x =</span> <span class="fu">element_text</span>(<span class="at">angle =</span> <span class="dv">45</span>, <span class="at">hjust =</span> <span class="dv">1</span>)) <span class="sc">+</span> </span>
+<span id="cb15-20"><a href="#cb15-20" aria-hidden="true" tabindex="-1"></a>  <span class="fu">scale_y_continuous</span>(<span class="at">labels =</span> <span class="fu">label_number</span>(<span class="at">scale_cut =</span> <span class="fu">cut_short_scale</span>()))</span></code><button title="Copy to Clipboard" class="code-copy-button"><i class="bi"></i></button></pre></div>
 </details>
 <div class="cell-output-display">
 <div>
@@ -547,6 +545,7 @@ pre > code.sourceCode > span > a:first-child::before { text-decoration: underlin
 </figure>
 </div>
 <p>India is starting to become one of the big players in the market. Hindi films have started to make strides and hitting top weekly charts. The Hindi film <em>RRR (Hindi)</em> has been in the top 10 cumulatively for <strong>18</strong> weeks. The show has a weekly hour view of <strong>79,780,000</strong>. Don’t sleep on the other films either! All Hindi films that have appeared in Netflix’s top 10 total up to <strong>183,000,000</strong> weekly hours viewed.</p>
+<p><a href="docs/mp01_files/figure-html/unnamed-chunk-15-1.png"></a></p>
 <div class="cell">
 <details class="code-fold">
 <summary>Code</summary>
@@ -570,6 +569,7 @@ pre > code.sourceCode > span > a:first-child::before { text-decoration: underlin
 </div>
 </div>
 </div>
+<p><a href="docs/mp01_files/figure-html/unnamed-chunk-16-1.png"></a></p>
 <div class="cell">
 <details class="code-fold">
 <summary>Code</summary>
@@ -638,7 +638,7 @@ pre > code.sourceCode > span > a:first-child::before { text-decoration: underlin
 </div>
 </div>
 </div>
-<p>In the map above, we can see that <em>WWE</em> has a strong presence in North America, South America, Europe, and parts of Asia. However, there are still many countries in Africa and the Middle East that have yet to embrace the thrill of <em>WWE</em>. With Netflix’s global reach, <em>WWE</em> has the potential to expand its audience and bring the excitement of wrestling to new regions. Speaking of regions, the graph below shows the number of times a WWE show has hit the weekly top 10. It’s not surprising that the 2 biggest events, <em>WrestleMania</em> and <em>SummerSlam</em>, are the most popular show.</p>
+<p><a href="docs/mp01_files/figure-html/unnamed-chunk-17-1.png"></a> In the map above, we can see that <em>WWE</em> has a strong presence in North America, South America, Europe, and parts of Asia. However, there are still many countries in Africa and the Middle East that have yet to embrace the thrill of <em>WWE</em>. With Netflix’s global reach, <em>WWE</em> has the potential to expand its audience and bring the excitement of wrestling to new regions. Speaking of regions, the graph below shows the number of times a WWE show has hit the weekly top 10. It’s not surprising that the 2 biggest events, <em>WrestleMania</em> and <em>SummerSlam</em>, are the most popular show.</p>
 <div class="cell">
 <details class="code-fold">
 <summary>Code</summary>
@@ -659,8 +659,9 @@ pre > code.sourceCode > span > a:first-child::before { text-decoration: underlin
 </div>
 </div>
 </div>
+<p><a href="docs/mp01_files/figure-html/unnamed-chunk-18-1.png"></a></p>
 <hr>
-<p>Last Updated: Friday 10 03, 2025 at 21:53PM</p>
+<p>Last Updated: Friday 10 03, 2025 at 22:12PM</p>
 
 
 </section>
